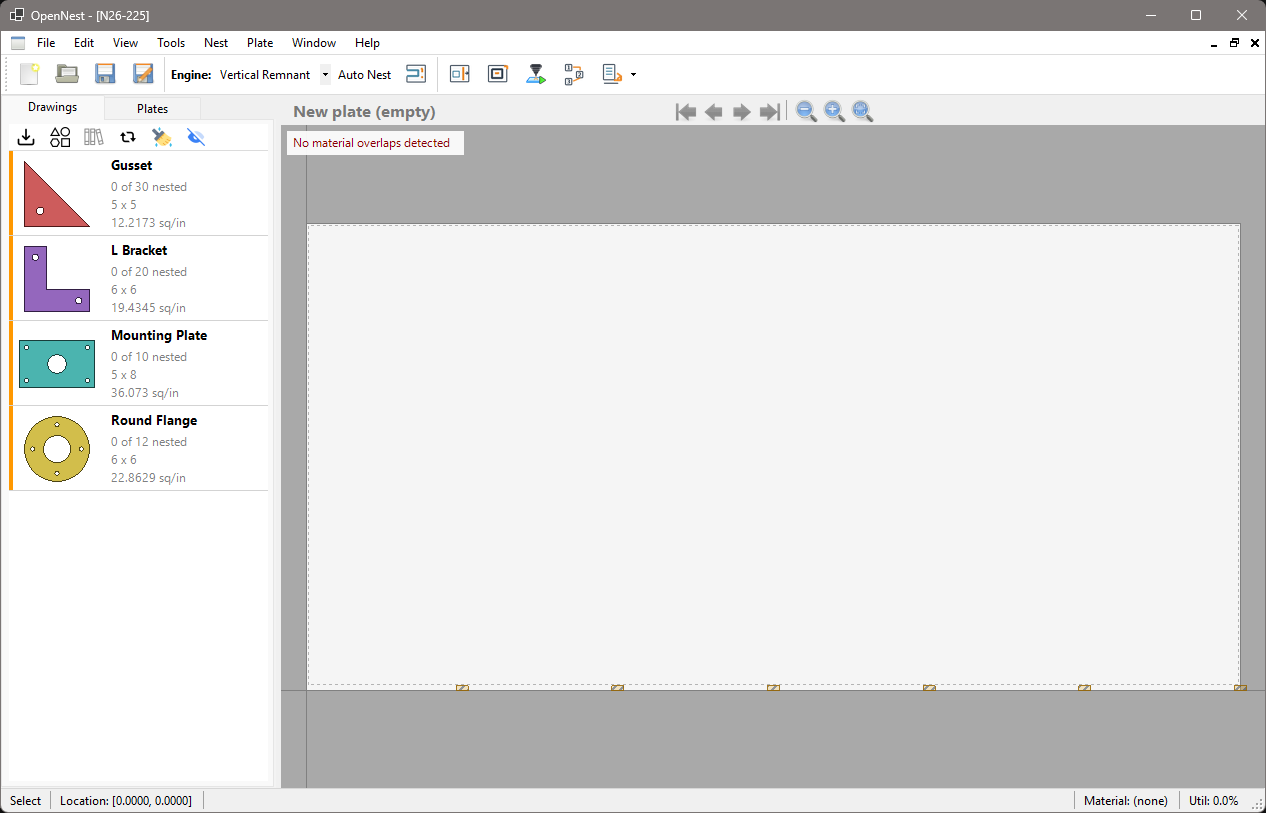
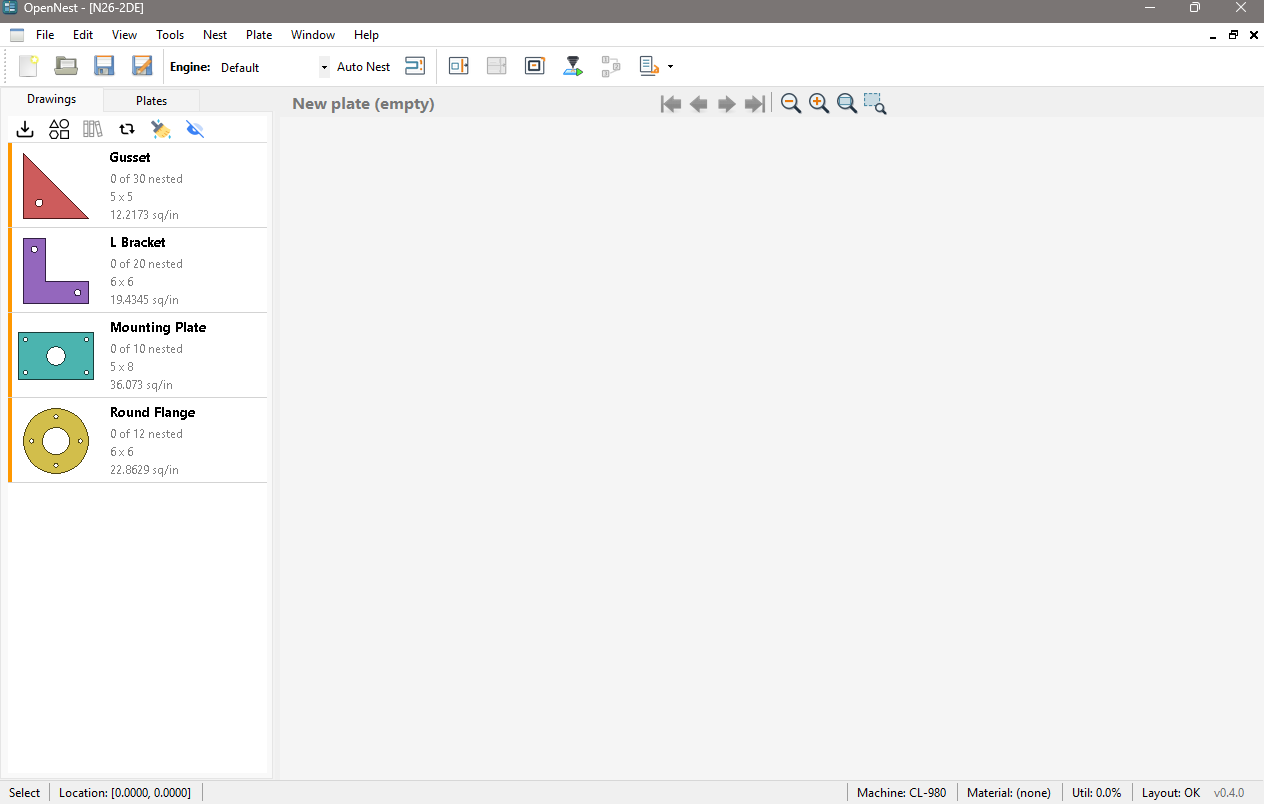
Recapture Your first nest and the engine list on the current app
The window chrome, toolbar (Trim/Extend Cut-Off, greyed buttons, new zoom
icons), status bar and drawing list changed, the post settings dialog was
redesigned with a section list, and the CAD Converter gained Holes....
Move every callout to the new layout, point the Auto Nest Qty callout at
Qty, and follow the new toolbar and dialog positions in the tutorial flow.
The flow now matches only a "<post> Settings" window, so it can't pick up
Windows' own Settings.

Text: the drawing list's count on the current sheet, rapids that raise the
head on a tightly packed sheet, the post settings' sections, the
converter's Dimensions section, and new settings' tab-held length of 6.

Changed region(s): [[0.0, 0.0, 1.0, 1.0]]

diff --git a/tools/flows/first_nest.py b/tools/flows/first_nest.py
@@ -128,23 +128,23 @@ def run(until):
     if until == "result":
         return
 
-    click(main, 498, 74)  # Plan Cutting toolbar button
+    click(main, 543, 74)  # Plan Cutting toolbar button
     time.sleep(8)
     capture("first-nest-plan-cutting", r"^OpenNest - \[")
-    click(main, 918, 377)  # Apply
+    click(main, 918, 369)  # Apply
     time.sleep(3)
 
-    click(main, 628, 74)  # Post drop-down arrow
+    click(main, 671, 66)  # Post drop-down arrow
     time.sleep(1)
     left, top = origin(main)
-    mouse.move(coords=(left + 680, top + 104))
+    mouse.move(coords=(left + 712, top + 97))
     time.sleep(1.2)
     capture("first-nest-post-menu", r"^OpenNest - \[", "--no-raise")
-    click(main, 680, 104)  # first post processor
-    settings = window(r"Settings$")
+    click(main, 712, 97)  # first post processor
+    settings = window(r".+ Settings$")
     time.sleep(1)
-    capture("first-nest-post-settings", r"Settings$")
-    click(settings, 332, 566)  # OK
+    capture("first-nest-post-settings", r".+ Settings$")
+    click(settings, 607, 566)  # OK
     window(r"^Verify Nest Before Posting", timeout=120)
     time.sleep(10)
     capture("first-nest-verify", r"^Verify Nest Before Posting")

diff --git a/docs/first-nest.md b/docs/first-nest.md
@@ -122,7 +122,8 @@ For priorities, rotation limits, engines and sheet costs, see [Auto Nest](auto-n
 ![Main window with the nested sheet](images/first-nest-result.png)
 
 1. **Plate 1 of 1 | 60 x 120:** the sheet you're looking at, and its size.
-2. Each drawing now shows **30 of 30 nested** (or its own quantity).
+2. Each drawing now shows **[30] 30 of 30 nested**: 30 on this sheet, and 30 of the 30
+   you need in the whole nest.
 3. Arrows to move between sheets when a job needs more than one.
 4. **Util:** how much of this sheet the parts use.
 
@@ -143,7 +144,10 @@ cut.
 4. Click **Apply** to put the plan on the plate. After you change settings, click
    **Replan** to plan again.
 5. **Issues** lists anything the plan couldn't solve, such as a part with no safe
-   place to start a cut.
+   place to start a cut. On a tightly packed sheet like this one, it can also list
+   rapids that raise the head over parts already cut, because no order keeps the head
+   down for them. The plan is still ready: the post raises the head for each one, and a
+   post with no head-raise code set up refuses the nest.
 
 !!! note "Lead-ins come from Cutting Settings"
     If the nest's machine has no settings for its material and thickness (set them in
@@ -161,8 +165,8 @@ cut.
 
 ![Post processor settings](images/first-nest-post-settings.png)
 
-1. The post's settings: output units, line numbers, subprograms, assist gas, kerf
-   compensation and more. OpenNest saves them for next time.
+1. The post's settings. Pick a section on the left (program output, sheets, libraries,
+   kerf, head raise and more) to see its settings. OpenNest saves them for next time.
 2. Click **OK** to continue.
 
 ### Check the nest before it is written

diff --git a/docs/cad-converter.md b/docs/cad-converter.md
@@ -17,8 +17,8 @@ nest: what you see in the preview is what will be cut.
 3. **Layers**, **Colors** and **Line Types** in the file. Untick one to leave
    everything on it out of the drawing: dimensions, title blocks, notes or a border.
    **All** and **None** tick or untick every layer.
-4. **Bend Lines**, **Breakoffs** and **Tabbed Cutouts.** Expand a section to see or
-   add them. Bend lines are found in the file when it's imported.
+4. **Bend Lines**, **Breakoffs**, **Tabbed Cutouts** and **Dimensions.** Expand a section
+   to see or add them. Bend lines are found in the file when it's imported.
 5. **Preview.** Scroll to zoom, drag with the middle button to pan, and double-click
    the middle button to fit the drawing. Right-click a line to change how it's used
    (see [below](#entities)).

diff --git a/docs/cutting-planner.md b/docs/cutting-planner.md
@@ -78,7 +78,7 @@ for it are put in.
    [support bed](machines.md#support-grid) and tabs only the parts that could tip, at
    the point where one tab steadies the part most. With **Tab alone holds parts up to**
    a length, a part that could tip and is no longer than that is held by its tab alone,
-   wherever the tab goes (0 = off). On a plate with no support bed, it tabs the parts
+   wherever the tab goes. New settings start at 6; 0 turns it off. On a plate with no support bed, it tabs the parts
    whose narrow side is in the **On plates with no support bed** range instead. Leave the
    second number at 0 to tab nothing there.
 5. **Pierce.** **Clearance from contour** is how far each pierce stays from the contour
